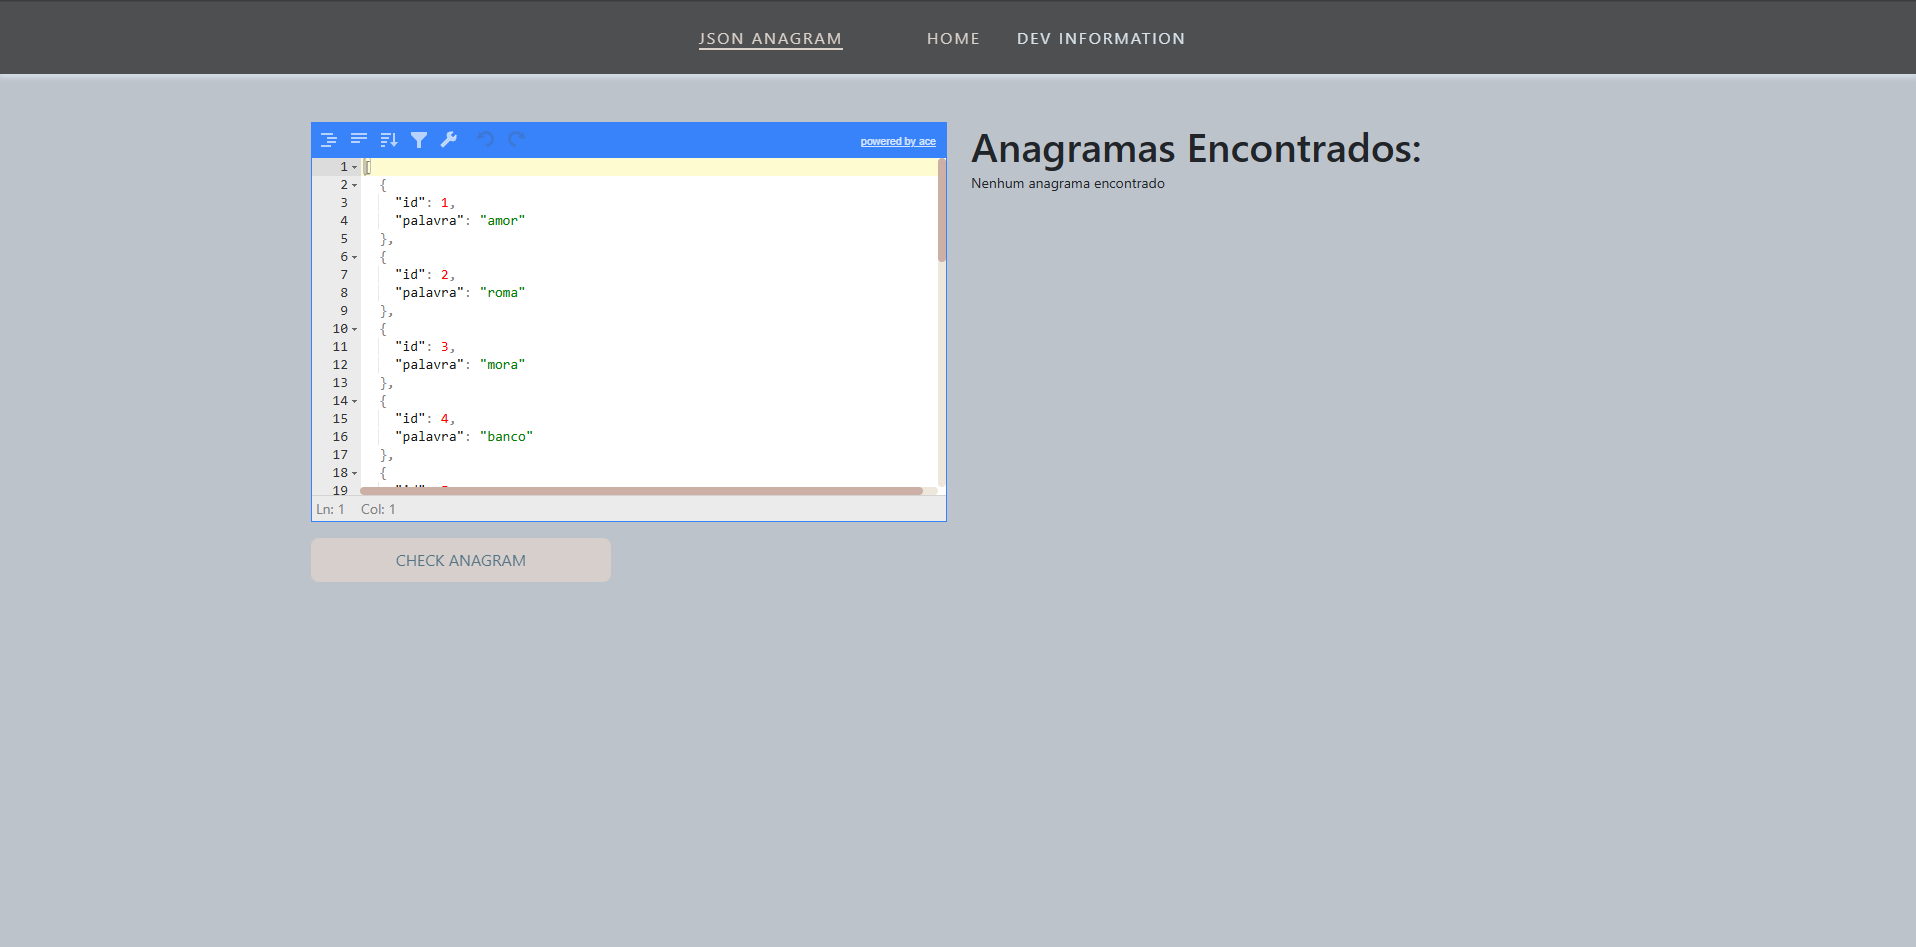
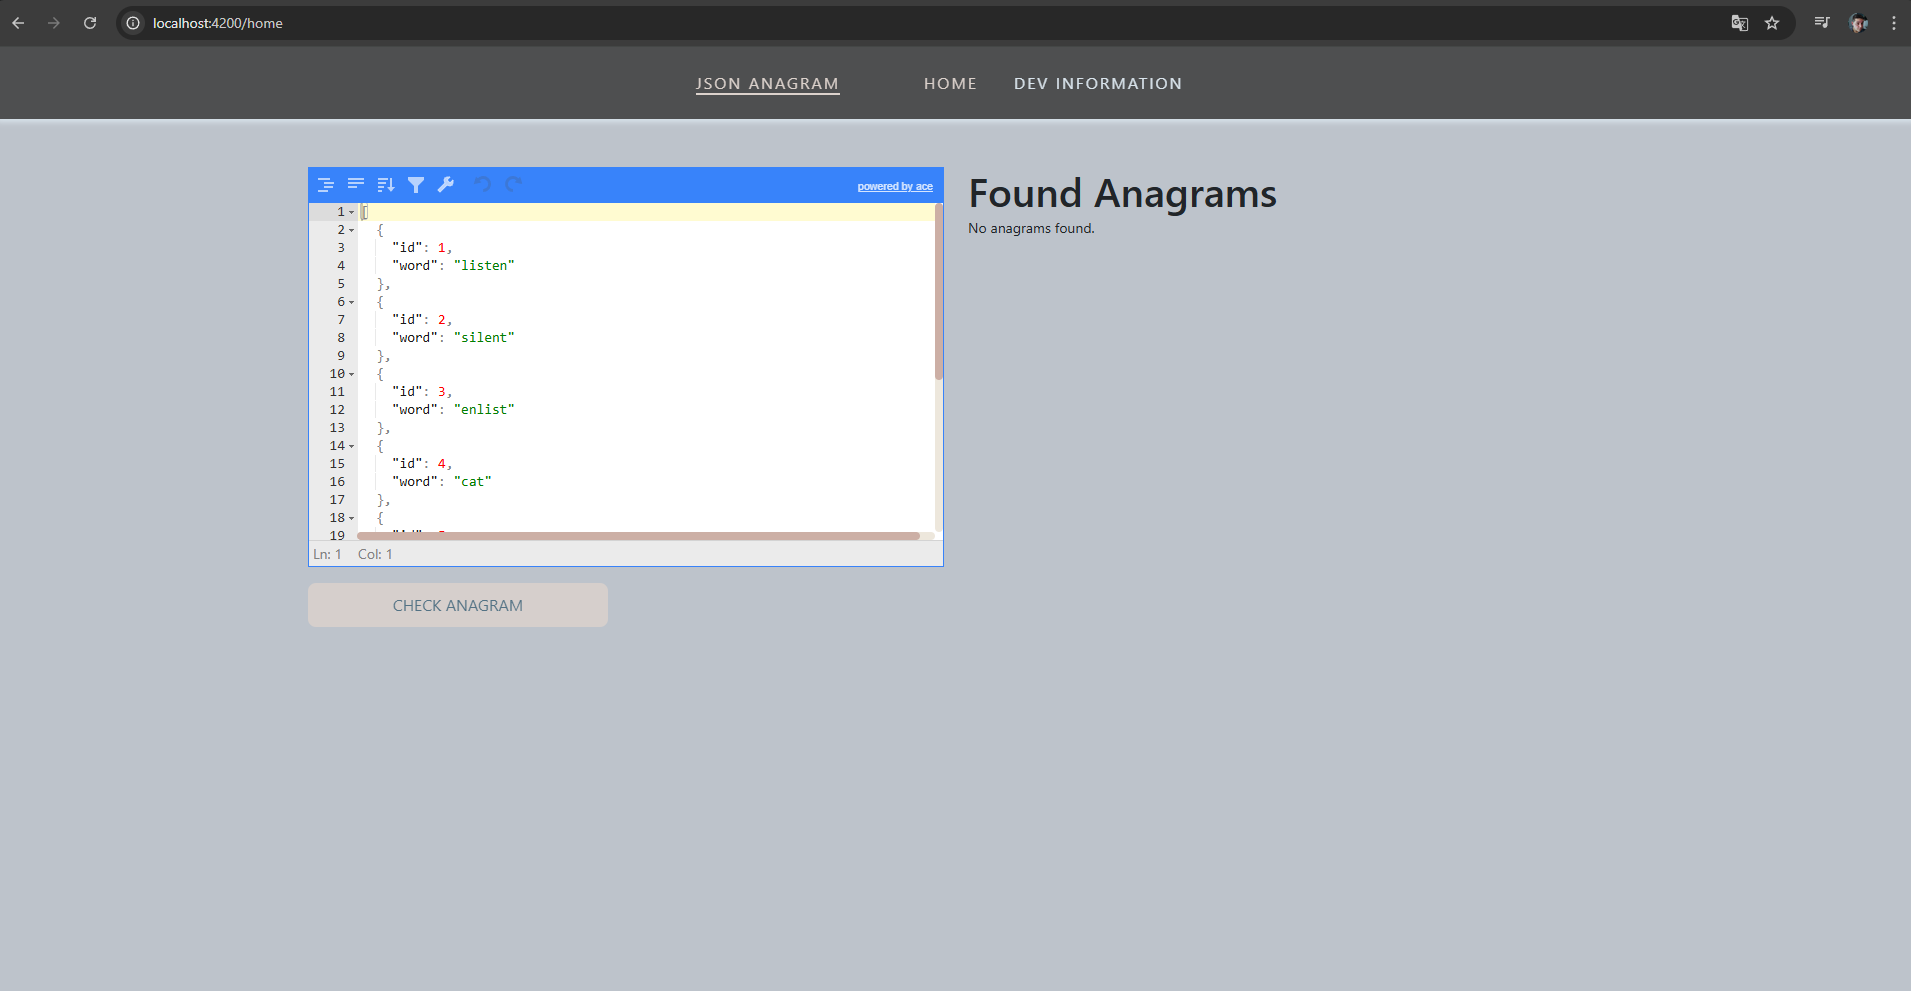
feat(app): added some refactor

Changed region(s): [[0.0, 0.0, 1.0, 0.6431], [0.4631, 0.2756, 0.494, 0.3675]]

diff --git a/src/app/components/json-editor/json-editor.component.ts b/src/app/components/json-editor/json-editor.component.ts
@@ -15,21 +15,15 @@ export class JsonEditorComponent implements OnInit, OnDestroy {
   @Output() jsonEditorData: EventEmitter<any> = new EventEmitter();
   editor!: JSONEditor;
   jsonData: AnagramInterface[] = [
-    { id: 1, palavra: "amor"},
-    { id: 2, palavra: "roma"},
-    { id: 3, palavra: "mora"},
-    { id: 4, palavra: "banco"},
-    { id: 5, palavra: "cabo"},
-    { id: 6, palavra: "saco"},
-    { id: 7, palavra: "caos"},
-    { id: 8, palavra: "cavalo"},
-    { id: 9, palavra: "volta"},
-    { id: 10, palavra: "pato"},
-    { id: 11, palavra: "topa"},
-    { id: 12, palavra: "ponta"},
-    { id: 13, palavra: "lobo"},
-    { id: 14, palavra: "bolo"}
-  ];
+    { id: 1, word: "listen" },
+    { id: 2, word: "silent" },
+    { id: 3, word: "enlist" },
+    { id: 4, word: "cat" },
+    { id: 5, word: "act" },
+    { id: 6, word: "tac" },
+    { id: 7, word: "apple" },
+    { id: 8, word: "pearl" }
+  ]
   showInvalidJsonMsg: boolean = false;
 
   ngOnInit(): void {
@@ -51,7 +45,7 @@ export class JsonEditorComponent implements OnInit, OnDestroy {
 
   sendJsonEditorData(): void {
     const jsonData: AnagramInterface[] = this.editor.get();
-    const hasIdAndWord: boolean = jsonData.every((item: AnagramInterface): boolean => item.hasOwnProperty('id') && item.hasOwnProperty('palavra'));
+    const hasIdAndWord: boolean = jsonData.every((item: AnagramInterface): boolean => item.hasOwnProperty('id') && item.hasOwnProperty('word'));
     if (!hasIdAndWord) {
       this.showInvalidJsonMsg = true;
       this.jsonEditorData.emit([]);

diff --git a/src/app/services/utils/utils.service.ts b/src/app/services/utils/utils.service.ts
@@ -10,12 +10,12 @@ export class UtilsService {
     const wordMap: { [key: string]: string[] } = {};
     const anagrams: string[] = [];
     arr.forEach((obj: AnagramInterface): void => {
-      if (obj.palavra) {
-        const filteredWords: string = obj.palavra.split('').sort().join('');
+      if (obj.word) {
+        const filteredWords: string = obj.word.split('').sort().join('');
         if (wordMap[filteredWords]) {
-          wordMap[filteredWords].push(obj.palavra);
+          wordMap[filteredWords].push(obj.word);
         } else {
-          wordMap[filteredWords] = [obj.palavra];
+          wordMap[filteredWords] = [obj.word];
         }
       }
     });

diff --git a/src/app/components/json-editor/json-editor.component.html b/src/app/components/json-editor/json-editor.component.html
@@ -9,12 +9,12 @@
 <div *ngIf="showInvalidJsonMsg" class="row json-invalid-error">
   <div class="col-sm">
     <p>
-      JSON Inválido, o JSON deve conter a chave "palavra" para ser analisado. <br/>
-      exemplo:<br/>
+      Invalid JSON, the JSON must contain the <strong>"word"</strong> key to be analyzed. <br/>
+      Example: <br/>
     </p>
     <code>
-      &#123;id: 1, palavra: "amor"&#125;, <br/>
-      &#123;id: 2, palavra: "roma"&#125;,
+      &#123;id: 1, word: "cat"&#125;, <br/>
+      &#123;id: 2, word: "act"&#125;,
     </code>
   </div>
 </div>

diff --git a/src/app/views/home/home.component.html b/src/app/views/home/home.component.html
@@ -6,8 +6,8 @@
     </div>
 
     <div class="col-sm">
-      <h1>Anagramas Encontrados:</h1>
-      <small *ngIf="anagrams.length <= 0">Nenhum anagrama encontrado</small>
+      <h1>Found Anagrams</h1>
+      <small *ngIf="anagrams.length <= 0">No anagrams found.</small>
       <ul *ngIf="anagrams.length > 0">
         <li *ngFor="let anagram of anagrams">{{ anagram }}</li>
       </ul>

diff --git a/src/app/interfaces/anagram.interface.ts b/src/app/interfaces/anagram.interface.ts
@@ -1,4 +1,4 @@
 export interface AnagramInterface {
   id: number | string,
-  palavra: string,
+  word: string,
 }
